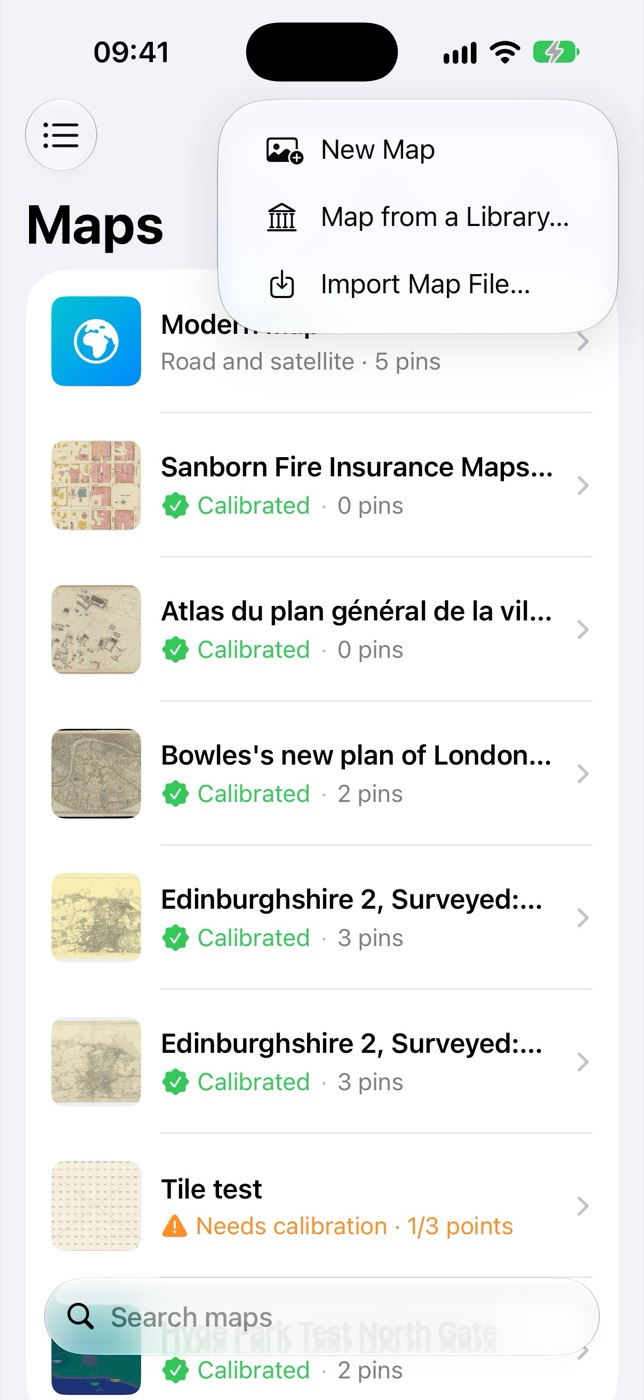
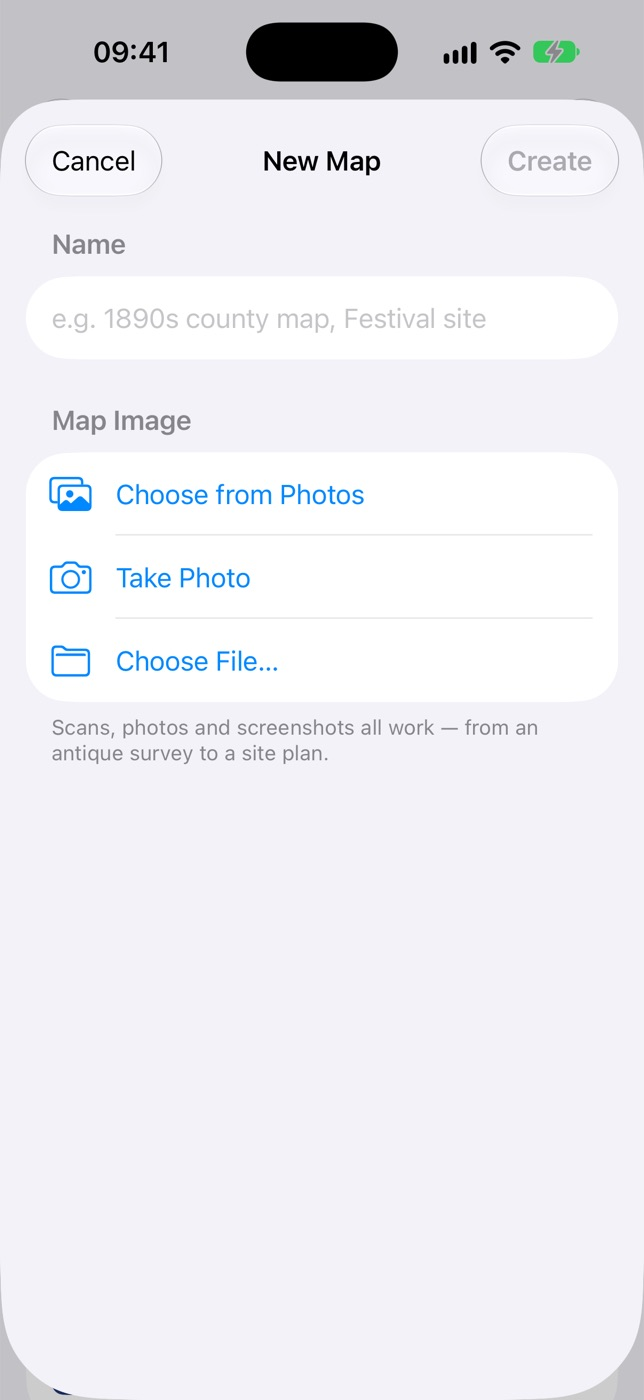
Simpler Add a map screenshot

diff --git a/index.html b/index.html
@@ -185,7 +185,7 @@
     <p class="intro">No special file formats and no surveying know-how. If you can point at a church or a crossroads on a map, you can calibrate it.</p>
     <div class="steps">
       <div class="step">
-        <div class="phone"><img src="assets/screen-maps.jpg" alt="The list of maps in Terra Nota" width="1206" height="2622" loading="lazy"></div>
+        <div class="phone"><img src="assets/screen-maps.jpg" alt="Adding a new map from Photos, the camera or a file" width="1206" height="2622" loading="lazy"></div>
         <h3>Add a map</h3>
         <p>Use a scan, a photo you take on the spot, a screenshot or a file. Or pick one from a library’s collection.</p>
       </div>
